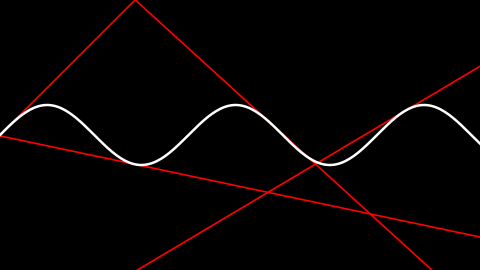
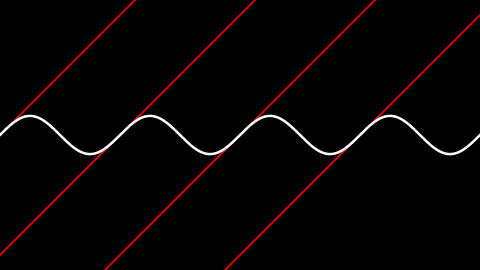
refactored
Refactored code to remove some code duplication. Also tweaked some
parameters for more appropriate image quality and render time.

diff --git a/readme_renders.py b/readme_renders.py
@@ -3,55 +3,49 @@
 import taylorbundle
 import curve
 from numpy import (sin, cos, pi)
+from copy import copy
 
-x = lambda t: t
-f = lambda t: sin(t)
-c = curve.Curve(x, f)
-tb1 = taylorbundle.TaylorBundle( curve = c )
+wx = 8*pi
+wy = wx * 9./32
+tb1 = taylorbundle.TaylorBundle( 
+          curve = curve.fromFunction(sin)
+        , window = [0, wx, -wy, wy]
+        , domain = [0,8*pi]
+        , curvelw = 6
+        , tanlen = 30
+        , dpi = 30
+        )
 
 def fig1():
-    tb1.set_options( filename = "figures/readme_fig1"
-                   , n_tan = 4
-                   , window = [0, 16, -4.5, 4.5]
-                   , domain = [0,18]
-                   , curvelw = 6
-                   , tanlw = 4
-                   , tanalpha = 1
-                   , tanlen = 20
-                   , dpi = 30
-                   )
-    tb1.render()
+    tb = copy(tb1)
+    tb.set_options(
+              filename = "figures/readme_fig1"
+            , n_tan = 4
+            , tanlw = 4
+            , tanalpha = 1
+            )
+    tb.render()
 
 def fig2():
-    wx = 8*pi
-    wy = wx * 9./32
-    tb1.set_options( filename = "figures/readme_fig2"
-                   , n_tan = 400
-                   , window = [0, wx, -wy, wy]
-                   , domain = [0,8*pi]
-                   , curvelw = 6
-                   , tanlw = 2
-                   , tanalpha = 0.4
-                   , tanlen = 20
-                   , dpi = 30
-                   )
-    tb1.render()
+    tb = copy(tb1)
+    tb.set_options(
+              filename = "figures/readme_fig2"
+            , n_tan = 200
+            , tanlw = 4
+            , tanalpha = 0.5
+            )
+    tb.render()
 
 def fig3():
-    wx = 8*pi
-    wy = wx * 9./32
-    tb1.set_options( filename = "figures/readme_fig3"
-                   , n_tan = 1000
-                   , n_part = 20
-                   , window = [0, wx, -wy, wy]
-                   , domain = [0,8*pi]
-                   , curvelw = 6
-                   , tanlw = 01
-                   , tanalpha = 0.4
-                   , tanlen = 20
-                   , dpi = 30
-                   )
-    tb1.render()
+    tb = copy(tb1)
+    tb.set_options(
+              filename = "figures/readme_fig3"
+            , n_tan = 1000
+            , n_part = 10
+            , tanlw = 1
+            , tanalpha = 0.4
+            )
+    tb.render()
 
 if __name__ == "__main__":
     fig1()
